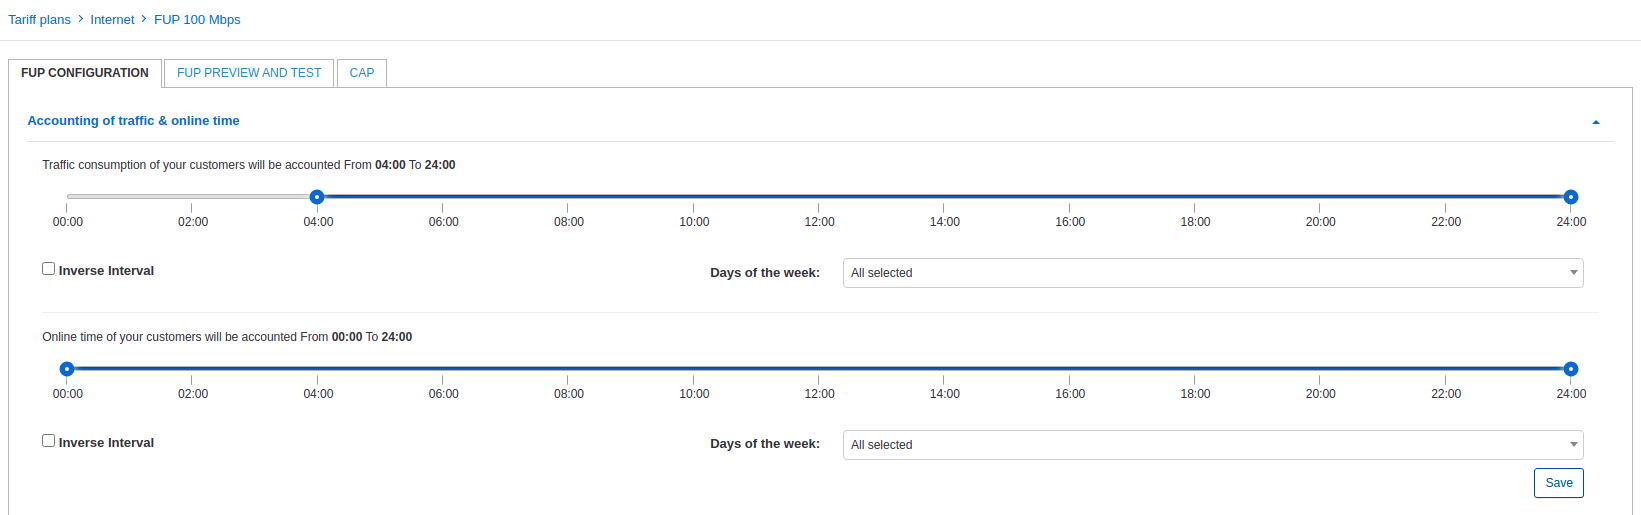
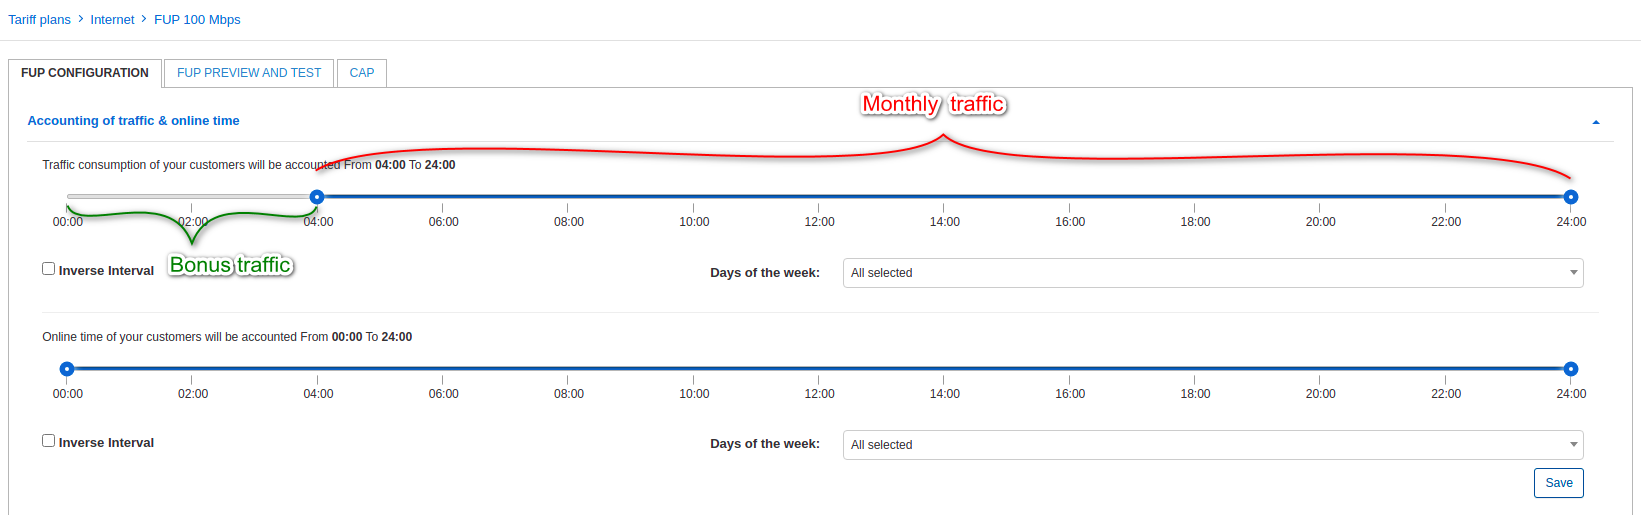
added clarification about time usage of bonus traffic

Changed region(s): [[0.2176, 0.1553, 0.9634, 0.3417], [0.0311, 0.4039, 0.2176, 0.5592], [0.1865, 0.3107, 0.2176, 0.3417]]

diff --git a/files/en/configuring_tariff_plans/capped_plans/capped_plans.md b/files/en/configuring_tariff_plans/capped_plans/capped_plans.md
@@ -25,13 +25,15 @@ Here’s a description of available options:
 
 * **Monthly traffic limit** - here you can set the amount of data a customer can consume per month
 
-* **Bonus traffic limit** - this option will ONLY work if a time frame has been specified under `FUP configuration` tab:
+* **Bonus traffic limit** - this option will **ONLY work if a time frame has been specified** under `FUP configuration` tab:
 
 ![time_frames](fup_time_frames.png)
 
-In this case, the customer will be able to use 50GB of bonus traffic only from 00:00 to 04:00 (A monthly limit of 100GB won't be used here). If you account for traffic for a whole day (without FUP time frames) - this option will not work.
+Based on the screenshots above, the **customer will be able to use 50GB of bonus traffic only from 00:00 to 04:00 (a monthly limit of 100GB won't be used here)**.
 
-You can set bonus traffic here or enable the toggle `Unlimited` to allow a customer to consume traffic without limits between 00:00 and 04:00.
+<icon class="image-icon">![image](warning.png)</icon> If you account for traffic for a whole day (without FUP time frames) - this option will not work.
+
+Under the **CAP** tab, you can set bonus traffic amount or enable the toggle `Unlimited` to allow a customer to consume traffic without limits from 00:00 to 04:00.
 
 * **Traffic direction** - select the direction of traffic for accounting: `Up + Down`, `Up` or `Down`;
 
@@ -47,7 +49,7 @@ You can set bonus traffic here or enable the toggle `Unlimited` to allow a custo
 
 * **Rollover unused data(monthly)** - enable/disable option to rollover unused data to the next month;
 
-* **Allow the usage of bonus traffic when normal CAP is finished** - with this option enabled customers will be able to use bonus traffic even if the monthly limit is reached.
+* **Allow the usage of bonus traffic when normal CAP is finished** - with this option enabled customers will be able to use bonus traffic even if the monthly limit is reached. Please note that in our case, **bonus traffic can be used only from 00:00 to 04:00, at other times the customer will be blocked**.
 
 
 ## Top-ups
@@ -119,7 +121,7 @@ Let's add an internet service with a monthly limit for the customer:
 
 ![service_limits](service_limits.png)
 
-So the customer has a 100GB monthly limit + 50GB bonus available only between 00:00 and 04:00 according to tariff plan settings.
+So the customer has a 100GB monthly limit + 50GB bonus available only from 00:00 to 04:00 according to tariff plan settings.
 
 On the customer main information page we now have this window with personal CAP settings:
 
